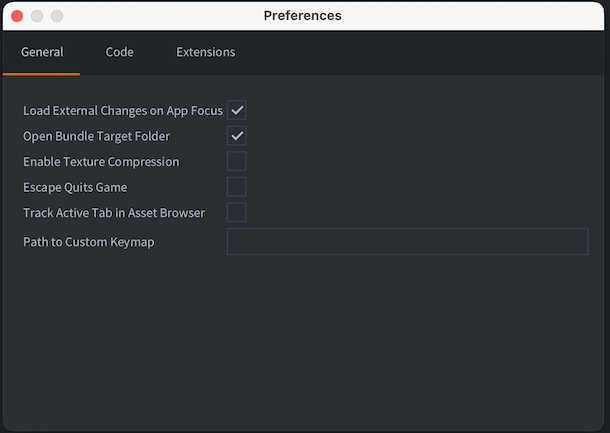
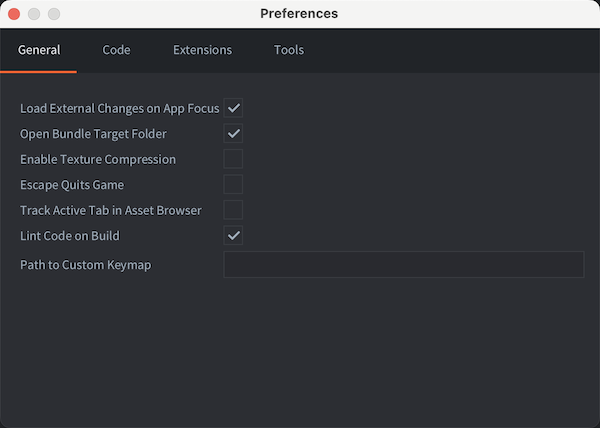
Added Lint Code on Build documentationj

diff --git a/docs/en/manuals/editor-preferences.md b/docs/en/manuals/editor-preferences.md
@@ -26,6 +26,9 @@ Escape Quits Game
 Track Active Tab in Asset Browser
 : The file edited in selected tab in the *Editor* pane will be selected in the Asset Browser (also known as the *Asset* pane).
 
+Lint Code on Build
+: Enables [code linting](/manuals/writing-code/#linting-configuration) when the project is built. This option is enabled by default, but can be disabled if the linting in a large project takes too much time.
+
 Path to custom keymap
 : Absolute path to a file containing [custom keyboard shortcuts](/manuals/editor-keyboard-shortcuts).
 
